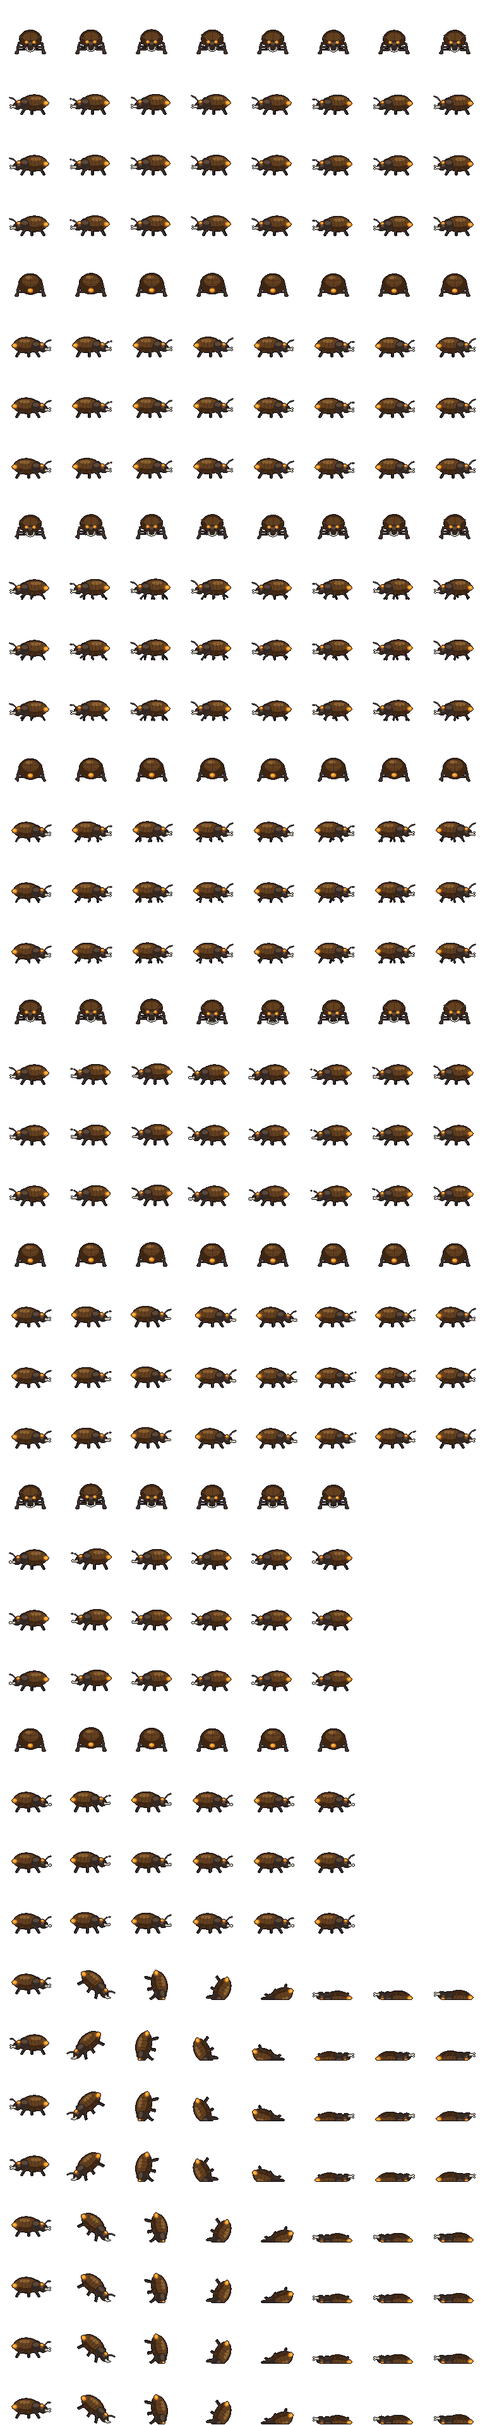
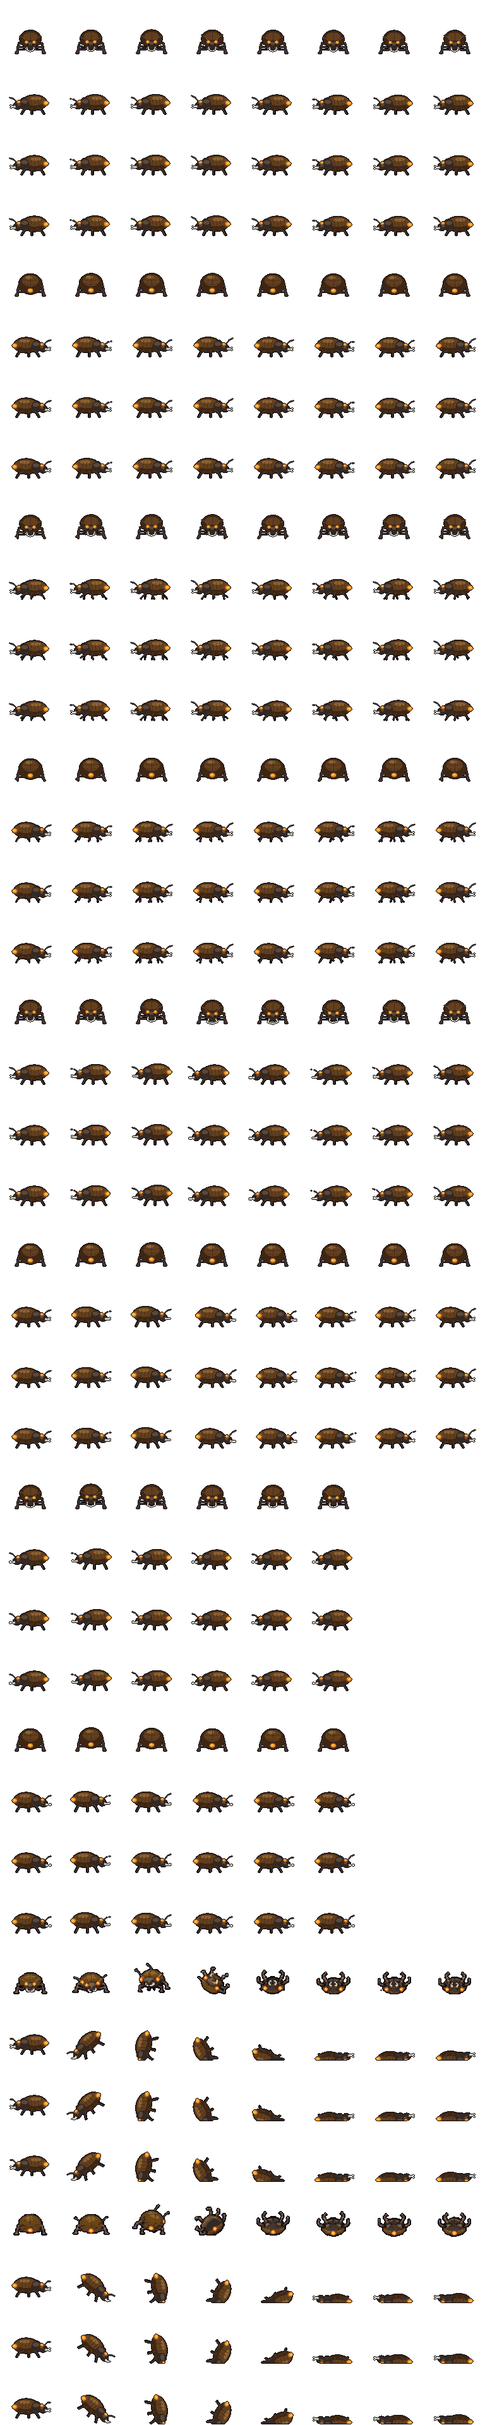
His three GPT sheets in: the stirge's and the fire beetle's hurt row from the front and behind, and the bugbear chief's second swing, morningstar2 (Griz, 10-08: "In for /deep16/art wanted")
- tools/bugs-sheet.py HURT_FB: "Stirge front and back hurt sheet" and "Fire Beetle front and back hurt sheet" (two rows of eight, Hurt Front -> S, Hurt Back -> N) cut by tools/sheetrows.py, pixelated, scaled by area to the code S idle (K 3.70 the stirge, 3.03 the beetle); the stirge starts at its idle's hover height and lands where the sheet lands it. Only the hurt row's S and N facings change in both sheets; the side fall stays drawn in code; the centipede keeps its side frames.
- tools/bugbear-sheet.py chief3: "bugbear chief GPT backhand 2" (six frames side-on) -> bugbearchief_p2 `morningstar2`, K 6.05 by the guard frames against the first swing's, toned to its colour; S and N play the first swing's front and back. js/battle.js already plays it for the chief's second blow (multi: two morningstars); ?show=bugbearchief plays it 4 times, every row twice. bugbear_p1 comes out byte-identical.
- tools/pixelate.py: `morningstar2` last in ANIM_ORDER (no sheet's rows move), 12 fps.
- deep16-art-wanted.md: the three IN HAND; the centipede's hurt row asked, with its paste.
- js/eyes.js: three rows (the two bugs on the sheet player, the chief on its show).

diff --git a/js/eyes.js b/js/eyes.js
@@ -17,6 +17,15 @@
   var DS = window.DS = window.DS || {};
   var G1 = 'Eyes: first', G2 = 'Eyes: built this week', G3 = 'Eyes: built before, never seen';
   DS.EYES = {
+    'eyes-chief-ms2-1008': { pri: 2, group: G2, title: 'The bugbear chief swings twice: its second blow on your MORNINGSTAR 2 row (10-08)', pt: 'the bestiary §6.3 (tools/bugbear-sheet.py chief3; deep16/art/bugbearchief_p2 morningstar2) · eyes',
+      url: 'deep16/?show=bugbearchief&fresh=1',
+      look: 'Your re-roll of the one row ("bugbear chief GPT backhand 2"). Two chiefs on the test ground, two morningstar blows a turn each: the first is the overhead smash as before, the second now your flat sweep, the morningstar thrown out at arm length and back to guard. Seen from the front or from behind, the second blow plays the first swing again (your sheet drew it side-on only). Is it the same size and colour as the first swing? Your sheet drew it a shade darker, so it was toned to match.' },
+    'eyes-stirge-hurt-fb-1008': { pri: 2, group: G2, title: 'The stirge falls from the front and from behind: your hurt sheet on S and N (10-08)', pt: 'the bestiary §2.3 (tools/bugs-sheet.py HURT_FB; deep16/art/stirge_p1 hurt) · eyes',
+      url: 'tools/sheet-play.html?sheet=stirge_p1&face=0,4,6&z=3',
+      look: 'Your "In for /deep16/art wanted". The sheet player, every row at its own speed, facing S, N and E. Scroll to hurt: S and N are your sheet (it jolts, tumbles and lands belly up, the wings flat out and the stinger up), E is the side fall still drawn in code. It should start at the hover height of the idle above it and land on the floor, at the size of the code idle (about 60 px across the wings, the code idle 67). Does it sit with the code-drawn rows?' },
+    'eyes-beetle-hurt-fb-1008': { pri: 2, group: G2, title: 'The fire beetle falls from the front and from behind: your hurt sheet on S and N (10-08)', pt: 'the bestiary §2.3 (tools/bugs-sheet.py HURT_FB; deep16/art/firebeetle_p1 hurt) · eyes',
+      url: 'tools/sheet-play.html?sheet=firebeetle_p1&face=0,4,6&z=3',
+      look: 'Your "In for /deep16/art wanted". The sheet player, facing S, N and E. Scroll to hurt: S and N are your sheet (it rears, tips over and lands on its back, legs curled up, the glands still lit), E is the side fall still drawn in code. The size is the code idle (54 px across against its 50). Does it sit with the code-drawn rows?' },
     'eyes-rockcatch-1008': { pri: 2, group: G2, title: 'The stone giants catch a rock: her CATCH row and his, Rock Catching by the SRD, and the thrown rock a rock in flight (10-08)', pt: 'the grid\'s rules §2.7 + the bestiary (tools/stonegiant-blend.py and stonegiantm-blend.py CATCH; deep16/js/battle.js Rock Catching, js/fx.js rockShot, js/show.js) · eyes',
       url: 'deep16/?show=stonegiant,stonegiantm&fresh=1',
       look: 'Your "make the unnecessary rock catch animation". The test ground, two of each look. At the end of each giant\'s second turn THE SHOW says a fellow giant hurls a rock at it: the rock flies as a grey-brown lump turning in a lob (before, a crossbow bolt\'s speck), and the one it is thrown at turns to face it, the left hand already up to meet it, the arm driven back by it, the rock drawn to the chest, weighed at the side, the arm let down with it -- the card DEX save ... CAUGHT, no damage. The male the same, his left hand off the club for it. Each giant\'s own rock at the watchers flies as the same lump. The last card: catch 2 on both sheets. Worth a look at the facings where the rock passes the face (side-on, the frames after the catch). In play (your "Go ahead and fix it"): one under the Big Screen with no friend it can walk to now shoots or throws at the nearest friend it sees, where it stood before -- a dominated stone giant\'s rock at the other giant is the one way the catch comes up in a fight (the Game Show\'s tier 9).' },

diff --git a/deep16/data/sprites.js b/deep16/data/sprites.js
@@ -833,7 +833,7 @@
 }
 },
 "bugbearchief_p2": {
-"image": "art/bugbearchief_p2.png?v=6c3c83a4a3",
+"image": "art/bugbearchief_p2.png?v=2a4edf7ef4",
 "fw": 96,
 "fh": 144,
 "ax": 48,
@@ -926,6 +926,15 @@
 "fw": 96,
 "fh": 144,
 "ax": 48,
+"ay": 132,
+"frames": 6,
+"fps": 12
+},
+"morningstar2": {
+"y": 11520,
+"fw": 120,
+"fh": 144,
+"ax": 60,
 "ay": 132,
 "frames": 6,
 "fps": 12
@@ -2229,7 +2238,7 @@
 }
 },
 "firebeetle_p1": {
-"image": "art/firebeetle_p1.png?v=70cd91d2ad",
+"image": "art/firebeetle_p1.png?v=41ee7cce6c",
 "fw": 96,
 "fh": 96,
 "ax": 48,
@@ -7206,7 +7215,7 @@
 }
 },
 "stirge_p1": {
-"image": "art/stirge_p1.png?v=0141b9e168",
+"image": "art/stirge_p1.png?v=184f8159c7",
 "fw": 96,
 "fh": 96,
 "ax": 48,

diff --git a/deep16/index.html b/deep16/index.html
@@ -75,7 +75,7 @@
 <script src="js/art.js?v=e1ce4cf012"></script>
 <script src="data/cavern.js?v=647c1a184a"></script>
 <script src="data/maps.js?v=fc31dd4bd3"></script>
-<script src="data/sprites.js?v=0bcbc5649d"></script>
+<script src="data/sprites.js?v=067bca0aa4"></script>
 <script src="js/sprites.js?v=eade39c910"></script>
 <script src="js/save.js?v=96d3055d4e"></script>
 <script src="data/spells.js?v=c2093ac973"></script>

diff --git a/tools/pixelate.py b/tools/pixelate.py
@@ -17,8 +17,8 @@ ROOT = os.path.dirname(os.path.dirname(os.path.abspath(__file__)))
 D16 = os.path.join(ROOT, 'deep16')
 SRC = os.path.join(D16, '_src')
 ART = os.path.join(D16, 'art')
-FPS = {'longsword': 12, 'longsword2': 12, 'longbow': 10, 'martial': 12, 'morningstar': 12, 'javelin': 10, 'ambush': 12, 'scimitar': 12, 'shortbow': 10, 'nimble': 12, 'hide': 8, 'gaze': 10, 'taunt': 10, 'denimdamage': 12, 'cannonball': 14, 'spot': 8, 'spotlight': 12, 'guard': 8, 'lobstahhug': 12, 'grouphug': 10, 'lifeline': 10, 'socialsharing': 8, 'socialflame': 10, 'socialdistancing': 10, 'honk': 10, 'hottake': 12, 'goingviral': 10,'claw': 12, 'claw2': 12, 'claw3': 12, 'bite': 10, 'burrow': 8, 'idle': 6, 'walk': 10, 'attack': 12, 'hurt': 10, 'die': 8, 'sit': 2, 'cast': 10, 'fly': 9, 'roost': 2, 'reveal': 6, 'moan': 8, 'flinch': 12, 'tendril': 12, 'tendril2': 12, 'tendril3': 12, 'tendril4': 12, 'reel': 10, 'still': 2, 'tentacles': 12, 'beak': 10, 'slither': 10, 'prone': 8, 'greatclub': 10, 'greatclub2': 10, 'rock': 10, 'climb': 8, 'catch': 10}
-ANIM_ORDER = ['idle', 'walk', 'attack', 'hurt', 'die', 'sit', 'cast', 'fly', 'roost', 'reveal', 'moan', 'flinch', 'rofl', 'braid', 'run', 'clack', 'burrow', 'claw', 'claw2', 'claw3', 'bite', 'tendril', 'tendril2', 'tendril3', 'tendril4', 'reel', 'still', 'tentacles', 'beak', 'slither', 'prone', 'greatclub', 'greatclub2', 'rock', 'climb', 'catch', 'gaze', 'taunt', 'denimdamage', 'cannonball', 'socialsharing', 'socialflame', 'socialdistancing', 'honk', 'hottake', 'goingviral', 'spot', 'spotlight', 'guard', 'lobstahhug', 'grouphug', 'lifeline', 'scimitar', 'shortbow', 'nimble', 'hide', 'morningstar', 'javelin', 'ambush', 'longsword', 'longsword2', 'longbow', 'martial']  # (longsword, longsword2, longbow: the hobgoblins' blows, rows named for the attack, the sergeant's second swing on its numbered row; martial: Martial Advantage's drilled lunge, js/battle.js -- their GPT sheets, 10-07)  # (morningstar, javelin: the bugbears' two blows, rows named for the attack; ambush: Surprise Attack's blow in round one, js/battle.js -- their GPT sheets, 10-07)  # (scimitar, shortbow: the goblin's two blows, battle.js plays a row named for the attack; nimble: its Nimble Escape, js/traits.js; hide: crouched behind its shield, nothing plays it till its Hide is built -- its GPT sheets, 10-07)  # (grouphug, lifeline: Goose's Group Hug and Lifeline, his sheet 5, 10-07)  # (spot, spotlight: Beholda's Eye On It and Spotlight; guard, lobstahhug: Denny's Bodyguard and Lobstah Hug -- their second and third sheets, 10-07; the cannonball 14 fps since, so his landing frame meets the leap's)  # (hottake, goingviral: Rascal's Hot Take and Going Viral, his second sheet, 10-07)  # (honk: Goose's, 10-07)  # (greatclub, greatclub2, rock: the stone giant's overhead smash, its flat sweep (a Multiattack's second swing), and the rock thrown from her left hand -- battle.js plays a row named for the attack, 10-04)  # (prone: a sheet's own fall, lying at its last frame -- sprites.js S.proneRow; the xorn's and the roper's, 10-02)  # (slither: a long move's gait, three squares or more -- battle.js moveAlong; the grick's, 10-02)  # (tentacles, beak: the grick's two blows, the beak only after the tentacles hit -- 10-02)  # (tendril..tendril4, reel, still: the roper's lash from each tendril, its Reel, and its False Appearance, a stalagmite -- 10-01e)  # (claw, claw2, claw3, bite: a row for each of a Multiattack's blows, the xorn's first -- battle.js attack, 10-01d)  # (burrow: going under, the bulette's, its last frame the mound it is while under -- 10-01d)  # (clack: the clacker striking its hooks together at its turn's start, 10-01)  # (braid: the ettercap sitting on its stump braiding, till it sees you; run: the giant boar's charge -- both 09-30)  # (rofl: the hyena rolling on the floor with laughter, 09-30: the Hideous Laughter easter egg)  # (flinch: a blow that lands and doesn't drop it, played once: the generated sheets' hit rows, 09-29)  # (fly: the cloaker's flight in, played as drawn -- the easter egg's ending)  # (cast: the spellcasters' own pose, the spell animation pass 09-28h)
+FPS = {'longsword': 12, 'longsword2': 12, 'longbow': 10, 'martial': 12, 'morningstar': 12, 'morningstar2': 12, 'javelin': 10, 'ambush': 12, 'scimitar': 12, 'shortbow': 10, 'nimble': 12, 'hide': 8, 'gaze': 10, 'taunt': 10, 'denimdamage': 12, 'cannonball': 14, 'spot': 8, 'spotlight': 12, 'guard': 8, 'lobstahhug': 12, 'grouphug': 10, 'lifeline': 10, 'socialsharing': 8, 'socialflame': 10, 'socialdistancing': 10, 'honk': 10, 'hottake': 12, 'goingviral': 10,'claw': 12, 'claw2': 12, 'claw3': 12, 'bite': 10, 'burrow': 8, 'idle': 6, 'walk': 10, 'attack': 12, 'hurt': 10, 'die': 8, 'sit': 2, 'cast': 10, 'fly': 9, 'roost': 2, 'reveal': 6, 'moan': 8, 'flinch': 12, 'tendril': 12, 'tendril2': 12, 'tendril3': 12, 'tendril4': 12, 'reel': 10, 'still': 2, 'tentacles': 12, 'beak': 10, 'slither': 10, 'prone': 8, 'greatclub': 10, 'greatclub2': 10, 'rock': 10, 'climb': 8, 'catch': 10}
+ANIM_ORDER = ['idle', 'walk', 'attack', 'hurt', 'die', 'sit', 'cast', 'fly', 'roost', 'reveal', 'moan', 'flinch', 'rofl', 'braid', 'run', 'clack', 'burrow', 'claw', 'claw2', 'claw3', 'bite', 'tendril', 'tendril2', 'tendril3', 'tendril4', 'reel', 'still', 'tentacles', 'beak', 'slither', 'prone', 'greatclub', 'greatclub2', 'rock', 'climb', 'catch', 'gaze', 'taunt', 'denimdamage', 'cannonball', 'socialsharing', 'socialflame', 'socialdistancing', 'honk', 'hottake', 'goingviral', 'spot', 'spotlight', 'guard', 'lobstahhug', 'grouphug', 'lifeline', 'scimitar', 'shortbow', 'nimble', 'hide', 'morningstar', 'javelin', 'ambush', 'longsword', 'longsword2', 'longbow', 'martial', 'morningstar2']  # (morningstar2: the bugbear chief's second swing of a turn, his re-roll of that row, 10-08; last, so no sheet's rows move)  # (longsword, longsword2, longbow: the hobgoblins' blows, rows named for the attack, the sergeant's second swing on its numbered row; martial: Martial Advantage's drilled lunge, js/battle.js -- their GPT sheets, 10-07)  # (morningstar, javelin: the bugbears' two blows, rows named for the attack; ambush: Surprise Attack's blow in round one, js/battle.js -- their GPT sheets, 10-07)  # (scimitar, shortbow: the goblin's two blows, battle.js plays a row named for the attack; nimble: its Nimble Escape, js/traits.js; hide: crouched behind its shield, nothing plays it till its Hide is built -- its GPT sheets, 10-07)  # (grouphug, lifeline: Goose's Group Hug and Lifeline, his sheet 5, 10-07)  # (spot, spotlight: Beholda's Eye On It and Spotlight; guard, lobstahhug: Denny's Bodyguard and Lobstah Hug -- their second and third sheets, 10-07; the cannonball 14 fps since, so his landing frame meets the leap's)  # (hottake, goingviral: Rascal's Hot Take and Going Viral, his second sheet, 10-07)  # (honk: Goose's, 10-07)  # (greatclub, greatclub2, rock: the stone giant's overhead smash, its flat sweep (a Multiattack's second swing), and the rock thrown from her left hand -- battle.js plays a row named for the attack, 10-04)  # (prone: a sheet's own fall, lying at its last frame -- sprites.js S.proneRow; the xorn's and the roper's, 10-02)  # (slither: a long move's gait, three squares or more -- battle.js moveAlong; the grick's, 10-02)  # (tentacles, beak: the grick's two blows, the beak only after the tentacles hit -- 10-02)  # (tendril..tendril4, reel, still: the roper's lash from each tendril, its Reel, and its False Appearance, a stalagmite -- 10-01e)  # (claw, claw2, claw3, bite: a row for each of a Multiattack's blows, the xorn's first -- battle.js attack, 10-01d)  # (burrow: going under, the bulette's, its last frame the mound it is while under -- 10-01d)  # (clack: the clacker striking its hooks together at its turn's start, 10-01)  # (braid: the ettercap sitting on its stump braiding, till it sees you; run: the giant boar's charge -- both 09-30)  # (rofl: the hyena rolling on the floor with laughter, 09-30: the Hideous Laughter easter egg)  # (flinch: a blow that lands and doesn't drop it, played once: the generated sheets' hit rows, 09-29)  # (fly: the cloaker's flight in, played as drawn -- the easter egg's ending)  # (cast: the spellcasters' own pose, the spell animation pass 09-28h)
 # LPC has four directions; the eight facings take the nearest, the front and back diagonals leaning to down and up
 LPC_ROW = {'up': 0, 'left': 1, 'down': 2, 'right': 3}
 LPC_FOR_FACING = ['down', 'down', 'left', 'up', 'up', 'up', 'right', 'down']

diff --git a/tools/bugs-sheet.py b/tools/bugs-sheet.py
@@ -11,8 +11,12 @@ take the side frames too (a first pass: a front and a back would be the next art
 Rows (every creature): idle 8, walk 8, attack 8, flinch 6, hurt 8 (the death; the engine plays `hurt` once at the end). The stirge adds
 `latched` 8: drawn at the shoulder of the one it is draining (js/ui.js plays it for an attached rider), the stinger in, the body swelling red.
 The fire beetle's glands glow in the picture and as a light on the floor (data/foes.js `glow`, SRD: bright 10 ft, dim 10 ft).
+Since 10-05 the rows bring a front (S) and a back (N) drawn here too (with_fb); since 10-08 the stirge's and the fire beetle's hurt from the front
+and behind are his GPT sheets, cut and pixelated (HURT_FB), and the centipede's hurt keeps its side frames till its sheet comes.
 """
 import os, sys, math
+import numpy as np
+from PIL import Image
 sys.path.insert(0, os.path.dirname(os.path.abspath(__file__)))
 import codeart as ca
 from codeart import C
@@ -338,8 +342,85 @@ def stirge_fb(view, ph=0.0, flap=1.0, dive=0.0, fold=0.0, drop=0.0):
     return c.finish()
 
 
+# ------------------------------------------------------------------ the hurt row from the front and behind: his generated sheets (10-08)
+# Griz, 10-08, two GPT sheets for the art list's "the three bugs' hurt row from the front and behind" ("In for /deep16/art wanted"):
+# deep16/_src/Stirge front and back hurt sheet.png and Fire Beetle front and back hurt sheet.png, rows "Hurt Front" (S) and "Hurt Back" (N),
+# eight frames each, cut by tools/sheetrows.py on boxes read off the images. The side row stays drawn in code; the giant centipede has no
+# sheet yet and keeps its side frames. Each spec: text boxes, rows (facing, band x0 y0 x1 y1, label strip y0 y1), and K, image px a game px:
+# the figure's area in frame 1 (the bug as it stands, before the blow lands) against the code's own S idle's (the stirge 898 px, K 3.68 S and 3.72 N; the beetle 1220, 3.04 and 3.01),
+# measured on the pixelated frame, outline and all. The stirge flies: its sheet starts it only a little above the floor it lands on, so the
+# rise above the floor is stretched to start at its idle's height (19 px) and land where the sheet lands it.
+HURT_FB = {
+    'stirge': dict(file='Stirge front and back hurt sheet.png', K=3.70, lift=True,
+                   text=[(30, 190, 150, 272), (30, 500, 150, 580)],
+                   rows=[('S', (150, 105, 2172, 305), (316, 352)), ('N', (150, 415, 2172, 615), (627, 663))]),
+    'firebeetle': dict(file='Fire Beetle front and back hurt sheet.png', K=3.03, lift=False,
+                       text=[(25, 145, 300, 190), (25, 455, 280, 500)],
+                       rows=[('S', (30, 195, 1983, 362), (364, 398)), ('N', (30, 503, 1983, 666), (673, 712))]),
+}
+FLOOR = 85                                  # the idle's lowest row (AY 84, its outline under it): a corpse lies on it
+
+
+def _src_dir():
+    """his sheets live in the main checkout (_src is not in git): a worktree reads them there"""
+    d = os.path.join(ca.ROOT, 'deep16', '_src')
+    if os.path.isdir(d):
+        return d
+    import subprocess
+    common = subprocess.run(['git', '-C', ca.ROOT, 'rev-parse', '--git-common-dir'], capture_output=True, text=True).stdout.strip()
+    return os.path.join(os.path.dirname(os.path.abspath(os.path.join(ca.ROOT, common))), 'deep16', '_src')
+
+
+def _bottom(im):
+    a = np.asarray(im)[..., 3] > 0
+    return int(np.where(a.any(axis=1))[0][-1])
+
+
+def hurt_fb(name, idle):
+    """-> {'S': [8 frames], 'N': [8 frames]} from his sheet, or {} for a bug with none; `idle` the code's idle row with its S and N"""
+    if name not in HURT_FB:
+        return {}
+    import importlib.util
+    from scipy import ndimage
+
+    def load(nm):
+        spec = importlib.util.spec_from_file_location(nm, os.path.join(ca.ROOT, 'tools', nm + '.py'))
+        mod = importlib.util.module_from_spec(spec); spec.loader.exec_module(mod)
+        return mod
+    SR, pix = load('sheetrows'), load('pixelate')
+    h = HURT_FB[name]
+    names = [str(i + 1) for i in range(8)]
+    rows = SR.cut_sheet(os.path.join(_src_dir(), h['file']), dict(text=h['text'], rows=[(v, b, l, names) for v, b, l in h['rows']]),
+                        tag=name)
+    out = {}
+    for view, _, _ in h['rows']:
+        frs = rows[view]
+        floor = max(b[3] for _, _, b in frs)
+        ups = [(floor - b[3]) / h['K'] for _, _, b in frs]
+        if h['lift'] and ups[0] > 0:                     # from its idle's height above the floor, landing where the sheet lands it
+            ups = [u * (FLOOR - _bottom(idle[view][0])) / ups[0] for u in ups]
+        row = []
+        for (nm, im, box), up in zip(frs, ups):
+            w, hh = im.size
+            a = pix.pixelate(im.resize((max(1, round(w / h['K'])), max(1, round(hh / h['K']))), Image.BOX), 1, do_lift=False)
+            d = ndimage.distance_transform_edt(a[..., 3] > 0)
+            cx = float(np.where(d >= 0.7 * d.max())[1].mean())   # the body's thick middle: the wings and legs are thin
+            fr = np.zeros((FH, FW, 4), np.uint8)
+            bottom = np.where(a[..., 3].any(axis=1))[0][-1]
+            ox, oy = int(round(AX - cx)), int(round(FLOOR - up)) - bottom
+            ah, aw = a.shape[:2]
+            y0, x0, y1, x1 = max(0, oy), max(0, ox), min(FH, oy + ah), min(FW, ox + aw)
+            fr[y0:y1, x0:x1] = a[y0 - oy:y1 - oy, x0 - ox:x1 - ox]
+            if (fr[..., 3] > 0).sum() < (a[..., 3] > 0).sum():
+                raise SystemExit('%s hurt %s frame %s: cut off at the frame edge' % (name, view, nm))
+            row.append(Image.fromarray(fr, 'RGBA'))
+        out[view] = row
+    return out
+
+
 def with_fb(name, rows):
-    """Bring each row's front (S) and back (N) beside its side frames; hurt keeps the side frames (as the clacker's sheet)."""
+    """Bring each row's front (S) and back (N) beside its side frames; hurt takes his generated sheet's where there is one (10-08), else
+    keeps the side frames (as the clacker's sheet)."""
     out = {}
     for an, fr in rows.items():
         if an in ('hurt', 'latched'):
@@ -363,6 +444,9 @@ def with_fb(name, rows):
                 elif an == 'attack': d[v] = [stirge_fb(v, ph=i / n, dive=dv, fold=f) for i, (dv, f) in enumerate(zip([0, -.2, -.4, .5, 1, .8, .3, 0], [0, 0, 0, .3, .6, .4, 0, 0]))]
                 else: d[v] = [stirge_fb(v, ph=i / n, drop=dd) for i, dd in enumerate([0, 3, 4, 2, 1, 0])]
         out[an] = d
+    fb = hurt_fb(name, out['idle'])
+    if fb:
+        out['hurt'] = dict(side=out['hurt'], **fb)
     return out
 
 

diff --git a/tools/bugbear-sheet.py b/tools/bugbear-sheet.py
@@ -19,8 +19,10 @@ the `still` row: js/ui.js plays it for a foe that has not acted or been woken.
 THE SIDE ROWS RE-ROLLED (10-07, his: "bugbear GPT and bugbear chief GPT are in the _src now"): deep16/_src/Bugbear GPT.png and bugbear chief
 GPT.png, one sheet an image at about 2.5x game size (the pastes in deep16-art-wanted.md, "The bugbear"), give the side rows -- idle, walk,
 morningstar, javelin, flinch, the fall from standing, a prone; the packed images keep the front, the back and the tricks, toned to the re-rolls'
-orange (TONE). The bugbear's re-roll drew three flinch frames (played 1 2 3 1); the chief's skipped the second swing it was asked for, so it
-has no `morningstar2` (its second blow plays the first's row again).
+orange (TONE). The bugbear's re-roll drew three flinch frames (played 1 2 3 1); the chief's skipped the second swing it was asked for.
+
+THE CHIEF'S SECOND SWING (10-08, his re-roll of that one row: deep16/_src/bugbear chief GPT backhand 2.png): `morningstar2`, the side frames
+from that sheet, the front and the back the first swing's; js/battle.js plays it for the chief's second blow of a turn (multi: two morningstars).
 """
 import os, sys, json, subprocess, tempfile
 import importlib.util
@@ -125,13 +127,17 @@ IMAGES['chief2'] = dict(file='bugbear chief GPT.png',
           ('s1.flinch', (130, 662, 1448, 781), (782, 799), NUM(4), [212, 369, 531, 697]),
           ('s1.fall', (130, 800, 1448, 929), (930, 947), NUM(6), [206, 386, 562, 765, 1056, 1311]),
           ('s1.prone', (130, 947, 1448, 1055), (1056, 1073), NUM(2), [235, 470])])   # (its javelin row is not cut: the chief has none)
+# the chief's second swing, his re-roll of that one row (10-08, "bugbear chief GPT backhand 2.png", for the art list's "Morningstar 2"): six
+# frames side-on, no labels but the numbers -- its second blow of the turn plays it (js/battle.js, a row named for the attack and numbered)
+IMAGES['chief3'] = dict(file='bugbear chief GPT backhand 2.png', text=[],
+    rows=[('s1.morningstar2', (20, 200, 2172, 540), (550, 600), NUM(6))])
 IMAGES['chief']['text'] += [(885, 876, 1176, 925), (915, 924, 1155, 937), (935, 1006, 1400, 1019), (785, 695, 910, 718)]   # (the last: sheet 4's
                                                             # "Morningstar (6)", its bracket in the band)   # sheet 4's flinch (drawn facing the viewer:
                                                             # unused, N plays the side flinch) and its numbers, the climb's numbers
 # the panels' border lines (rows, columns), painted navy before the cut: a figure touching one (the bugbear's prone, on its panel's floor)
 # would join it into one long blob, and sheetrows drops a long thin blob as a rule
 ERASE = {'bugbear': [(932, 934, 941, 944)]}                 # the back flinch's "1", fused to climb 1's raised hand
-BORDERS = {'bugbear2': ([], []), 'chief2': ([], []),
+BORDERS = {'bugbear2': ([], []), 'chief2': ([], []), 'chief3': ([], []),
            'bugbear': ([2, 3, 513, 514, 519, 520, 521, 1020, 1021], [2, 3, 4, 763, 764, 771, 772, 773, 1532, 1533]),
            'chief': ([485, 486, 1023], [0, 767, 768, 1534, 1535])}
 # the rest of the rows' frames by hand too, from the probe of the number labels (detection read a raised hand or a spear tip as a label)
@@ -210,6 +216,7 @@ LOOKS = {
         'walk': dict(side='chief2:s1.walk', S=('s3.walk', ['1', '2', '3', '4', '5', '6', '7', '8']),
                      N=('s4.walk', ['1', '2', '3', '4', '5', '6', '7', '8'])),
         'morningstar': dict(side='chief2:s1.morningstar', S='s3.morningstar', N='s4.morningstar'),
+        'morningstar2': dict(side='chief3:s1.morningstar2', S='s3.morningstar', N='s4.morningstar'),   # (from the front and behind, the first swing's)
         'attack': dict(side='chief2:s1.morningstar', S='s3.morningstar', N='s4.morningstar'),
         'ambush': dict(side='s2.ambush', S='s3.ambush', N='s4.ambush'),
         'still': dict(side='s2.lurk'),
@@ -222,10 +229,13 @@ LOOKS = {
 # chief's): the same body at the same size -- their idles stand straighter, about 54 and 52 px against the packed hunch's 49 and 50
 K['bugbear2'] = {'s1': K['bugbear']['s1'] * 105.5 / 41.8}
 K['chief2'] = {'s1': K['chief']['s1'] * 99.8 / 38.8}
+# the second swing's: its guard frames (1 and 6) against the first swing's (1 and 6) by area, 6.03 to 6.08 -- frame 1 about 50 px to their 48
+K['chief3'] = {'s1': 6.05}
 # the packed images' colour to the re-rolls' (they hold six facings of eight): the re-rolls drew the fur a more saturated orange (at game size,
 # the fur's mean 123/72/36 the bugbear's re-roll to 117/75/45 its packed front; the chief's 129/77/39 to 129/85/48): each channel times a factor,
 # the greys (the steel, the javelins' heads) left be
-TONE = {'bugbear': (1.046, 0.960, 0.805), 'chief': (1.000, 0.909, 0.810)}
+TONE = {'bugbear': (1.046, 0.960, 0.805), 'chief': (1.000, 0.909, 0.810),
+        'chief3': (1.105, 1.141, 1.201)}           # (the second swing's sheet drew it darker: its fur 115/68/34 to the first swing's 127/78/41)
 RELEASE = {'javelin': 3}                                     # the frame the javelin leaves on (frame 4, the arm thrown forward): js/battle.js
 FH, AY = 144, 132
 

diff --git a/deep16-art-wanted.md b/deep16-art-wanted.md
@@ -1,7 +1,7 @@
 ---
 title: DEEP16 art wanted -- what is still a stand-in
 made: 2026-09-28 (Code tab), for Griz's free GPT / Grok image runs
-updated: 2026-10-07 night (Code tab) -- re-sorted on Griz's word ("bunch the stuff that's still needed to the first page and the done stuff elsewhere or somewhere at the end"): STILL WANTED first, then how a sheet should come back and the COMMON TAIL, then DONE (the register and every section that came back, its pastes kept for a re-roll); nothing cut; 2026-10-06 night (Code tab) -- the Mascot's new rows against the sheets asked for, and Goose's first sheet, on his word; 2026-10-06 (Code tab) -- the Wet's three props under WANTED, on his word; 2026-10-05 (Code tab) -- rewritten on Griz's word ("we're pretty much done with that list"): the WANTED table is the Pocket DM's pot checked against the figures; everything finished is under IN HAND; the Keeper, rebuilt with a fight of his own, is in
+updated: 2026-10-08 (Code tab) -- the stirge's and the fire beetle's hurt from the front and behind, and the bugbear chief's Morningstar 2, IN HAND from his GPT sheets (*"In for /deep16/art wanted"*); the centipede's hurt asked, its paste under Rows still missing; 2026-10-07 night (Code tab) -- re-sorted on Griz's word ("bunch the stuff that's still needed to the first page and the done stuff elsewhere or somewhere at the end"): STILL WANTED first, then how a sheet should come back and the COMMON TAIL, then DONE (the register and every section that came back, its pastes kept for a re-roll); nothing cut; 2026-10-06 night (Code tab) -- the Mascot's new rows against the sheets asked for, and Goose's first sheet, on his word; 2026-10-06 (Code tab) -- the Wet's three props under WANTED, on his word; 2026-10-05 (Code tab) -- rewritten on Griz's word ("we're pretty much done with that list"): the WANTED table is the Pocket DM's pot checked against the figures; everything finished is under IN HAND; the Keeper, rebuilt with a fight of his own, is in
 how: paste a creature's HEAD, then the COMMON TAIL, into the generator. Drop what comes back in the repo root (any name; say which creature) and the seat files it in `deep16/_src/` as `<creature>_grok_N.png` (gitignored; tester screenshots go in `deep16/_src/tester-feedback/`) and cuts it the chuul's way (pipeline 2: one `tools/<creature>-sheet.py` per creature). A free print model with a .blend goes through pipeline 1b instead: `deep16/blender-monsters.md`
 ---
 
@@ -50,7 +50,11 @@ PROPS TAIL (paste after the props head, in place of the COMMON TAIL): 16-bit pix
 ### Rows still missing on looks in hand (welcome, never blocking)
 
 - **Prone** (the register's prone column says "someday"): the chuul, the crawler (the Warrens' herd), the ettercap, the otyugh, the landlord, the bulette, the owls, brown and snowy (Find Familiar), the giant boar, the clacker. Till then a prone figure plays its fall row's frame before last (`deep16/js/sprites.js` S.proneFrame).
-- **The three bugs' hurt row from the front and behind** (the stirge, the fire beetle, the giant centipede: S and N are in since 10-05, the hurt row still uses the side frames).
+- **The giant centipede's hurt row from the front and behind** (S and N are in since 10-05; its hurt row still uses the side frames). The stirge's and the fire beetle's came back 10-08 IN HAND, one GPT sheet each (`deep16/_src/Stirge front and back hurt sheet.png`, `Fire Beetle front and back hurt sheet.png`: two rows of eight, Hurt Front and Hurt Back), cut by `tools/bugs-sheet.py` HURT_FB. The centipede's paste, the same shape -- attach `dev/shots/bugs-centipede.png` (the main checkout's: its rows as the game draws it, side, front and back). When it comes back: `deep16/_src/`, a `centipede` entry in HURT_FB (its text boxes and rows read off the image, K by the code S idle's area, `lift` off), `python tools/bugs-sheet.py centipede`.
+
+HEAD: THE GIANT CENTIPEDE -- its hurt row from the front and from behind. Attached: the centipede as the game draws it now (from the side, from the front, from behind); draw the same creature. A giant centipede about five feet long: a long body of red segments, darker and brighter red by turns, gold-brown legs on every segment, a red head with two bone-white pincers and two short gold feelers, two feelers trailing at the tail. Two rows of 8: Hurt Front (seen head-on, the head toward the viewer and the body trailing away behind it: struck, it rears up and thrashes, rolls over, and lies on its back with its legs curled up); Hurt Back (the same seen from behind, the tail toward the viewer and the head away: it rears, rolls over, and lies on its back with its legs curled up).
+
+HURT TAIL (paste after the head above, in place of the COMMON TAIL): 16-bit pixel art animation sheet, SNES-era, crisp dark outline, readable at small size. Flat dark navy background. ONE sheet only, filling the whole image: no portrait, no turnaround, no title. Two rows, labelled Hurt Front and Hurt Back at the left, 8 frames each, numbered under each frame. Every frame stands apart with clear space around it: nothing overlaps a neighbour or a label. The same scale in every frame; the last frames lie on one floor line.
 - **The will-o'-wisp's Variable Illumination** on screen (bright 5-20 ft; its light field is `tools/wisp-sheet.py`).
 - **A second sheet for anything in hand** (idle variations, special moves) is welcome, never needed.
 
@@ -94,7 +98,7 @@ Everything that came back: the register first, then each ask's own section in th
 | the grick (1b's third) | MZ4250's Grick on its own rig; walk and slither, still, reveal | `tools/grick-blend.py` | 10-02 | frame 3 of its death |
 | the troll (1b's fourth) | MZ4250's Troll Updated, a biped on its own rig; no Regrow row is wanted (Griz, 10-08: "we don't"): its knitting up from 0 is its death row played back, the wounds drawn closing in code (`deep16/js/looks.js` LK.knit) | `tools/troll-blend.py` | 10-04 | its own row |
 | the stone giants, her and him (1b's fifth; two looks, one at random) | MZ4250's female and male Stone Giant (thing:4157322, CC BY): idle, walk, greatclub, greatclub2, rock, flinch, hurt, prone; Griz's poser frames in greatclub, prone and hurt | `tools/stonegiant-blend.py`, `tools/stonegiantm-blend.py` | 10-04 | its own row |
-| the will-o'-wisp, the stirge, the fire beetle, the giant centipede (**drawn in code**, 10-05) | `wisp_p1`, `stirge_p1`, `firebeetle_p1`, `centipede_p1`: idle, walk, attack, flinch, hurt; the stirge's `latched` row | `tools/wisp-sheet.py`, `tools/bugs-sheet.py`, `tools/codeart.py` | 10-05 | the hurt row (they die on their backs) |
+| the will-o'-wisp, the stirge, the fire beetle, the giant centipede (**drawn in code**, 10-05) | `wisp_p1`, `stirge_p1`, `firebeetle_p1`, `centipede_p1`: idle, walk, attack, flinch, hurt; the stirge's `latched` row | `tools/wisp-sheet.py`, `tools/bugs-sheet.py`, `tools/codeart.py` | 10-05 | the centipede's hurt from the front and behind (the stirge's and the beetle's his GPT sheets, 10-08) |
 | the goblin (the Game Show's first wave, and the wagon's glamour) | 4 GPT sheets, `goblin_p2`: idle, walk, scimitar, shortbow, nimble, hide, climb, flinch, hurt, prone; S and N their own | `tools/goblin-sheet.py` | 10-07 | its own row |
 | the bugbear, the bugbear chief (two looks) | GPT's packed sheets (four panels an image) and their side rows re-rolled one sheet an image (`Bugbear GPT`, `bugbear chief GPT`): `bugbear_p1` ("Ogre Warrior"), `bugbearchief_p2` ("Ogre_GPT"): idle, walk, morningstar, javelin (the bugbear), ambush, still (Lurk), climb, flinch, hurt, prone; S and N their own | `tools/bugbear-sheet.py` | 10-07 | its own row |
 | ~~the garrison of Sólskaft: the Trooper and the Drill-sergeant (the Skylights; 10-05)~~ DONE 10-05 | LPC-composed as the 8-bit's dwarves: the troopers on `trooper_p0` (09-27), the sergeant on `drillsergeant_p0` (`tools/lpc-compose.py drillsergeant_full`, squashed, pixelated) | (Griz: "LPC the pop-op dwarves more like the NPC dwarves instead of Duergar") |
@@ -288,7 +292,7 @@ Griz, 10-07: *"try me the bugbear as an .md with all the sheets listed and we'll
 
 **Came back 10-07, IN HAND** -- GPT drew the file's four sheets as four panels of ONE 1536 x 1024 image, twice (Griz: *"the bugbear came back from gpt as ogre - but they are in _src for review"*; `deep16/_src/Ogre Warrior GPT.png`, `Ogre_GPT.png`), and he ruled the two *"Bugbear and chief"*: the shaggy one is `bugbear_p1`, the tusked one with the topknot `bugbearchief_p2` (the chief had shared the bugbear's Monkroose, `bugbearchief_p1`, kept on disk till his look). Both cut by `tools/bugbear-sheet.py` over `tools/sheetrows.py`. **What the one-file test found: a file with every sheet comes back as one image, so every frame is about game size** (the side idle 46 px on the image) -- nothing to downscale, softer than the goblin's (its sheets 2-4x game size). For sharp frames: one sheet per image. The seat's calls: the front idle about 56 px (the chief 60, the boss), the rest by area against each image's turnaround (the bugbear's side rows a 7% upscale); both images' from-behind Flinch is drawn facing the viewer, so N plays the side flinch; the chief's side Flinch is drawn facing the viewer too and stands in (1 2 3 1); the chief's Fall is drawn 1 2 3 5 6 2, cut as down on 1 2 3 5 with 6 and 5 its prone; the bugbear's Fall lies flat from its first frame; nine-frame walks lose their doubled number; the chief's javelin rows are not cut (no javelin in its `foes.js` block) nor its seventh, unnumbered climber. Lurk is `still`; Ambush plays for a round-one melee blow from a foe with `surprise` (`deep16/js/battle.js`); the javelin leaves on frame 4 (`release`).
 
-**The re-rolls came back 10-07, IN HAND** (Griz: *"bugbear GPT and bugbear chief GPT are in the _src now"*; `deep16/_src/Bugbear GPT.png`, `bugbear chief GPT.png`, one sheet an image at about 2.5x game size, crisp): the side rows of both looks are theirs now -- six facings of eight -- and the packed images keep the front, the back and the tricks, toned to the re-rolls' orange. The fall from standing and the prone came; the bugbear drew three flinch frames (played 1 2 3 1); the chief skipped `Morningstar 2`, so its second blow plays the first's row (a re-roll of that one row would add it). The pastes below are kept for a re-roll.
+**The re-rolls came back 10-07, IN HAND** (Griz: *"bugbear GPT and bugbear chief GPT are in the _src now"*; `deep16/_src/Bugbear GPT.png`, `bugbear chief GPT.png`, one sheet an image at about 2.5x game size, crisp): the side rows of both looks are theirs now -- six facings of eight -- and the packed images keep the front, the back and the tricks, toned to the re-rolls' orange. The fall from standing and the prone came; the bugbear drew three flinch frames (played 1 2 3 1); the chief skipped `Morningstar 2`. **Its one-row re-roll came back 10-08, IN HAND** (`deep16/_src/bugbear chief GPT backhand 2.png`, six frames side-on): `morningstar2`, the chief's second blow of a turn, the front and the back the first swing's, toned to the first swing's colour (`tools/bugbear-sheet.py` chief3). The pastes below are kept for a re-roll.
 
 **Asked again (10-07, his offer: "paste a prompt if you want GPT to take another stab at some rows or different rows"):** each one's side rows alone, large, one sheet an image -- they play in six of the eight facings -- with the Fall from standing and a Prone, and a second swing for the chief (its two blows a turn: battle.js plays `morningstar2` for the second). When they come back: `tools/bugbear-sheet.py` takes them for `side` in place of the packed sheet 1 (a new image entry and its rows; K by the new sheet's own turnaround-free measure, the side idle against the packed one's), `morningstar2` into pixelate's ANIM_ORDER. Attach the image named:
 
@@ -403,7 +407,7 @@ The Hired Blade, the Stable Fighter and the Drow Blade-Captain are done above. T
 - the **will-o'-wisp**: a light field (`tools/wisp-sheet.py`), with a floor light of its own (`glow`, out when it turns invisible);
 - the **stirge**, the **fire beetle** (glands that light the floor) and the **giant centipede**: `tools/bugs-sheet.py` on `tools/codeart.py`; the stirge has a `latched` row for Blood Drain (the proboscis driven in, the body swelling red).
 
-Front and back views for the three bugs are in (S and N, 10-05); the hurt row still uses the side frames. What is left: a wisp that shows its Variable Illumination (bright 5-20 ft) on screen.
+Front and back views for the three bugs are in (S and N, 10-05); the hurt row from the front and behind is his sheets' for the stirge and the fire beetle (10-08), the centipede's still the side frames. What is left: a wisp that shows its Variable Illumination (bright 5-20 ft) on screen.
 
 Any of them goes first to a free printable with a .blend (`deep16/blender-monsters.md`), second to a generated sheet. A second sheet for something already in hand (idle variations, special moves) is welcome, never needed.
 
